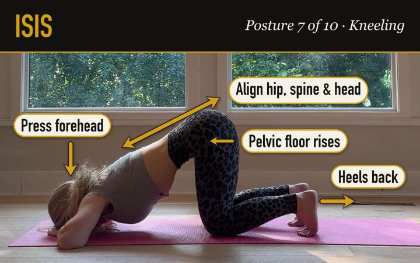
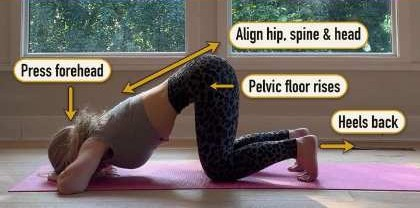
Tarah: crop posture name bars off library photos
Claude-Session: https://claude.ai/code/session_01T5phG2WhQMiGv38abEmy8V

diff --git a/tarah/sw.js b/tarah/sw.js
@@ -1,4 +1,4 @@
-const C='bca-tarah-v1794624011';
+const C='bca-tarah-v1794624713';
 self.addEventListener('install',e=>{self.skipWaiting();e.waitUntil(caches.open(C).then(c=>c.addAll(['./','/assets/favicon.svg','/assets/apple-touch-icon.png','/assets/icon-192.png','/assets/icon-512.png']).catch(()=>{})))});
 self.addEventListener('activate',e=>{e.waitUntil(caches.keys().then(ks=>Promise.all(ks.filter(k=>k.startsWith('bca-tarah-')&&k!==C).map(k=>caches.delete(k)))).then(()=>self.clients.claim()))});
 self.addEventListener('fetch',e=>{const r=e.request;if(r.method!=='GET')return;const u=new URL(r.url);
